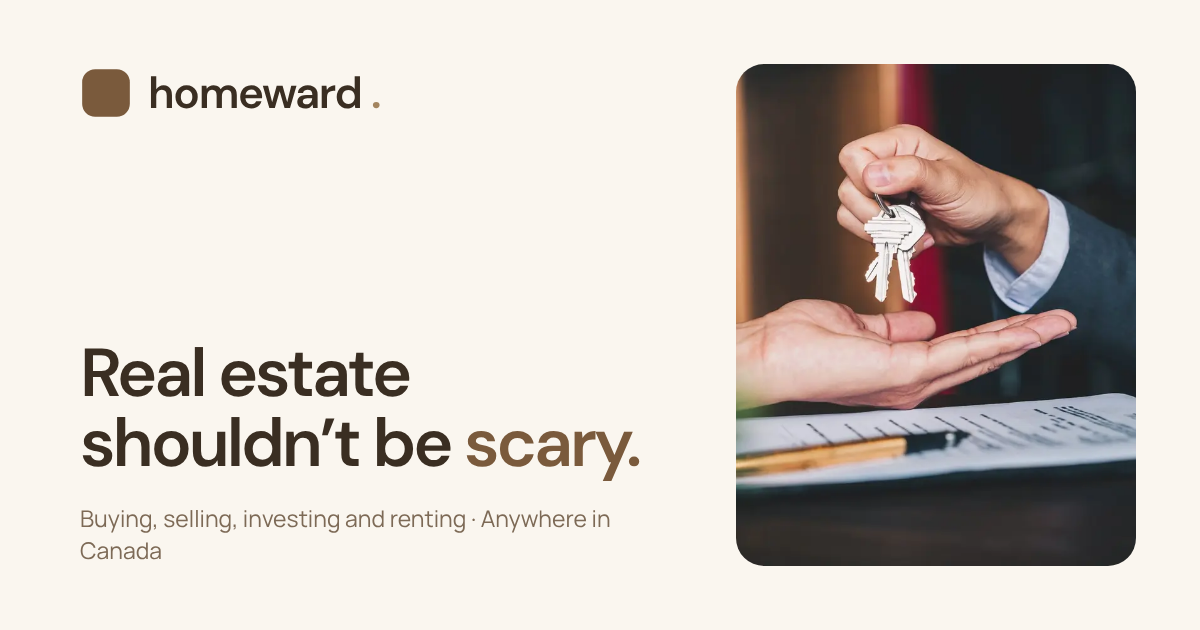
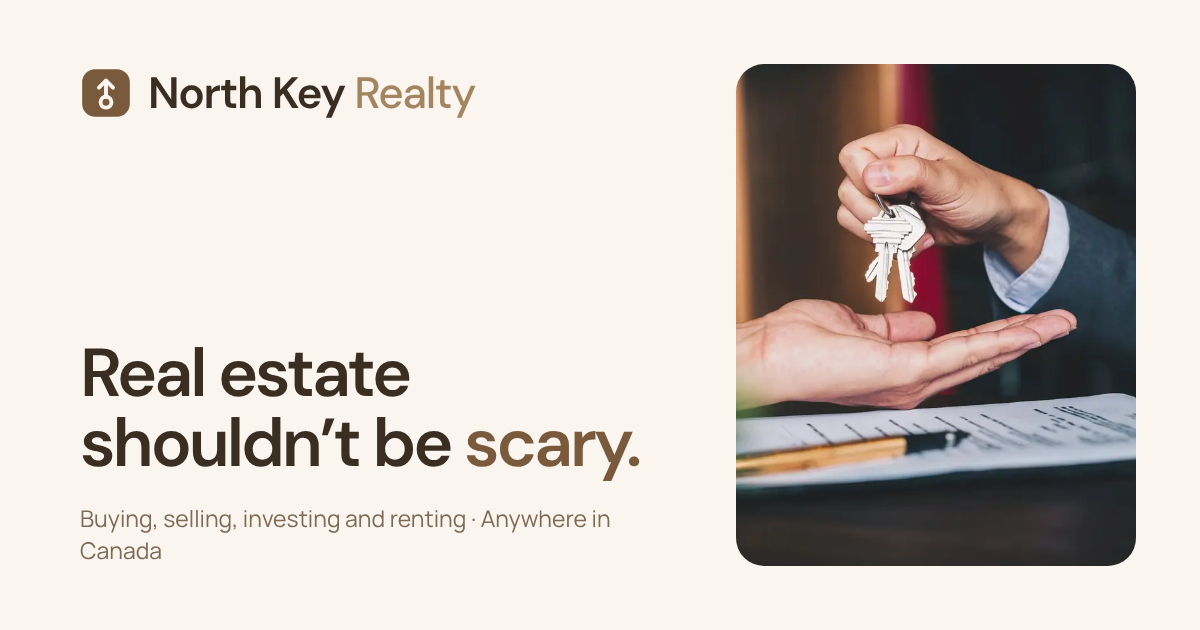
Homeward becomes North Key Realty
New name across the site (pages, emails, PDFs, titles), a north-key
mark (a key pointing north on the brand-brown square) in the logo,
icons, favicon and PDFs, the North Key Realty wordmark, and a new link
preview image. The look and the tools are unchanged.

Claude-Session: https://claude.ai/code/session_01BAXLh1LJG2DLzXyzfFg8Ah

Changed region(s): [[0.1233, 0.1206, 0.4008, 0.181], [0.0617, 0.1206, 0.0925, 0.181]]

diff --git a/brands/real-estate-business/src/lib/brand.js b/brands/real-estate-business/src/lib/brand.js
@@ -1,17 +1,34 @@
-// The Homeward mark: a filled rounded square in the brand brown, on a
+// The North Key Realty mark: a brown rounded square holding a cream key
+// that points north (its bow below, its shaft up to an arrowhead), on a
 // 48-unit square. Logo.jsx, the PDFs,
 // public/favicon.svg and the app icons all draw this geometry, in COLOR.
-// (This file replaces src/lib/brand.js on the Homeward copy of the site;
+// (This file replaces src/lib/brand.js on the North Key Realty copy of the site;
 // see scripts/rebrand.mjs.)
 export const MARK = {
   color: '#7A5A3C',
   outer: { x: 2, y: 2, size: 44, r: 12 },
+  ink: '#FAF6EF',
+  stroke: 3.6,
+  // The key, in the square: its round bow, the shaft, and the arrowhead pointing north.
+  bow: { cx: 24, cy: 32.5, r: 5 },
+  shaft: [24, 27.5, 24, 12.5],
+  head: [
+    [17.5, 19],
+    [24, 12.5],
+    [30.5, 19],
+  ],
 };
 
 /** The whole mark as SVG elements (inside a 0 0 48 48 viewBox). */
 export function markSvg(color = MARK.color) {
   const o = MARK.outer;
-  return `<rect x="${o.x}" y="${o.y}" width="${o.size}" height="${o.size}" rx="${o.r}" fill="${color}"/>`;
+  const { bow, shaft, head, ink, stroke } = MARK;
+  const line = `fill="none" stroke="${ink}" stroke-width="${stroke}" stroke-linecap="round" stroke-linejoin="round"`;
+  return (
+    `<rect x="${o.x}" y="${o.y}" width="${o.size}" height="${o.size}" rx="${o.r}" fill="${color}"/>` +
+    `<circle cx="${bow.cx}" cy="${bow.cy}" r="${bow.r}" ${line}/>` +
+    `<path d="M${shaft[0]} ${shaft[1]}V${shaft[3]}M${head.map((p) => p.join(' ')).join('L')}" ${line}/>`
+  );
 }
 
 /** "#7A5A3C" as [122, 90, 60]. */
@@ -24,4 +41,10 @@ export function drawMarkPdf(doc, x, y, size, bg = [255, 255, 255]) {
   void bg;
   doc.setFillColor(...hexRgb(MARK.color));
   doc.roundedRect(x + o.x * k, y + o.y * k, o.size * k, o.size * k, o.r * k, o.r * k, 'F');
+  const { bow, shaft, head } = MARK;
+  doc.setDrawColor(...hexRgb(MARK.ink));
+  doc.setLineWidth(MARK.stroke * k);
+  doc.circle(x + bow.cx * k, y + bow.cy * k, bow.r * k, 'S');
+  doc.line(x + shaft[0] * k, y + shaft[1] * k, x + shaft[2] * k, y + shaft[3] * k);
+  for (let i = 1; i < head.length; i++) doc.line(x + head[i - 1][0] * k, y + head[i - 1][1] * k, x + head[i][0] * k, y + head[i][1] * k);
 }

diff --git a/brands/real-estate-business/src/landing/Landing.jsx b/brands/real-estate-business/src/landing/Landing.jsx
@@ -12,10 +12,10 @@ import { DEFAULT_MARKET, INDEX_DOC, dedupeListings, feedDoc, listingCity, listin
 import { money } from '../lib/format.js';
 
 /**
- * Homeward's front page at /. The look and words are Homeward's; every
+ * North Key Realty's front page at /. The look and words are its own; every
  * number comes from the same engine as the app (the buying rules, the
  * mortgage maths, the morning run's listings), and every link opens the
- * real tool. (This file replaces src/landing/Landing.jsx on the Homeward
+ * real tool. (This file replaces src/landing/Landing.jsx on the North Key Realty
  * copy of the site; see scripts/rebrand.mjs.)
  */
 
@@ -144,7 +144,7 @@ function Nav() {
   return (
     <header className="sticky top-0 z-30 border-b border-hairline bg-(--page)/90 backdrop-blur supports-[backdrop-filter]:bg-(--page)/80">
       <div className={`${shell} flex h-[84px] items-center justify-between gap-4`}>
-        <a href="/" aria-label="Homeward home" className="min-w-0 rounded-sm focus-visible:outline-2 focus-visible:outline-offset-4 focus-visible:outline-(--accent)">
+        <a href="/" aria-label="North Key Realty home" className="min-w-0 rounded-sm focus-visible:outline-2 focus-visible:outline-offset-4 focus-visible:outline-(--accent)">
           <Logo />
         </a>
         <nav aria-label="Sections" className="hidden items-center gap-5 text-sm font-semibold text-zinc-600 lg:flex dark:text-zinc-400">

diff --git a/brands/real-estate-business/src/components/Logo.jsx b/brands/real-estate-business/src/components/Logo.jsx
@@ -1,17 +1,17 @@
 import { MARK, markSvg } from '../lib/brand.js';
 
-/** The mark alone: a rounded square in the brand brown. */
+/** The mark alone: a cream key pointing north, on a rounded square in the brand brown. */
 export function LogoMark({ className = 'size-7' }) {
   return <svg viewBox="0 0 48 48" className={className} aria-hidden dangerouslySetInnerHTML={{ __html: markSvg(MARK.color) }} />;
 }
 
-/** The wordmark, as Homeward writes it: lowercase, with a dot in the lighter brown. */
+/** The wordmark: North Key in the display face, Realty lighter beside it (hidden on the narrowest phones). */
 export default function Logo() {
   return (
     <div className="flex min-w-0 items-center gap-2.5 sm:gap-3">
       <LogoMark className="size-7 shrink-0 sm:size-8" />
       <span className="font-display whitespace-nowrap text-[21px] font-semibold tracking-[-0.03em] text-zinc-900 sm:text-[23px] dark:text-white">
-        homeward<span className="ml-1 text-emerald-500 dark:text-emerald-300">.</span>
+        North Key<span className="ml-1.5 font-medium text-emerald-600 max-[380px]:hidden dark:text-emerald-300">Realty</span>
       </span>
     </div>
   );

diff --git a/brands/real-estate-business/theme.css b/brands/real-estate-business/theme.css
@@ -1,4 +1,4 @@
-/* Homeward: warm cream pages, brown accents, DM Sans headings over Manrope.
+/* North Key Realty: warm cream pages, brown accents, DM Sans headings over Manrope.
    scripts/rebrand.mjs puts the @import lines at the top of src/index.css and
    the rest at the end, so these win over the Squarely look. */
 @import '@fontsource-variable/dm-sans';
@@ -19,7 +19,7 @@
   --color-rule: #c9b79c;
   --color-well: rgb(122 90 60 / 0.06);
 
-  /* Homeward brown at Tailwind's light-to-dark steps: every emerald-* class in the app takes it. */
+  /* The brand brown at Tailwind's light-to-dark steps: every emerald-* class in the app takes it. */
   --color-emerald-50: #faf4ea;
   --color-emerald-100: #f2e9db;
   --color-emerald-200: #e7d7bf;
@@ -138,7 +138,7 @@ html.dark .shot {
   }
 }
 
-/* Homeward keeps its calm look: no grid, corner ticks or glow from the app's HUD, and its own fonts for labels and ranks. */
+/* North Key Realty keeps its calm look: no grid, corner ticks or glow from the app's HUD, and its own fonts for labels and ranks. */
 :root,
 html.dark {
   --hud-grid: transparent;

diff --git a/brands/real-estate-business/src/seo/theme.js b/brands/real-estate-business/src/seo/theme.js
@@ -1,6 +1,6 @@
-// Homeward's look for the city pages (replaces src/seo/theme.js on the
-// Homeward copy of the site; see scripts/rebrand.mjs). Homeward is the
-// site search engines list.
+// North Key Realty's look for the city pages (replaces src/seo/theme.js on
+// its copy of the site; see scripts/rebrand.mjs). It's the site search
+// engines list.
 
 export const PAGE_THEME = {
   index: true,

diff --git a/README.md b/README.md
@@ -218,7 +218,8 @@ logo), and whether it starts light. Files in `brands/<slug>/src/` replace the
 same files in `src/`, for a brand's own logo or homepage.
 
 The second Worker, `real-estate-business`, is set up this way and now runs as
-**Homeward**: its name, its "homeward." logo, warm cream and brown colours,
+**North Key Realty**, the site we grow (it was Homeward until November 2026):
+its name, its north-key logo (a key pointing north) and wordmark, warm cream and brown colours,
 DM Sans and Manrope, light by default, and its own homepage
 (`brands/real-estate-business/src/landing/Landing.jsx`). Every tool behind it
 (the app, listings, accounts, landlord tools) is the same as the main site's.
@@ -234,4 +235,4 @@ file, so a change to the main homepage doesn't reach it on its own.
 
 ## City pages for search
 
-`npm run build` ends with `scripts/city-pages.mjs`, which writes plain-HTML pages from the morning listings in `public/data/` into `dist/homes-for-sale/`: one for every city, and one for each kind of home in it (`/homes-for-sale/thunder-bay/duplexes/`) with at least three listings. Each listing is worked out by the listings engine: 20% down at a bank's rate, stated or average asking rents, and cash flow and a grade only where the listing gives its real tax bill. They're added to the built sitemap, so every daily listings commit refreshes them on deploy. A brand copy sets its own look and whether search engines may list them in `brands/<slug>/src/seo/theme.js`. Homeward is the site we grow, so its pages are listed in search too.
+`npm run build` ends with `scripts/city-pages.mjs`, which writes plain-HTML pages from the morning listings in `public/data/` into `dist/homes-for-sale/`: one for every city, and one for each kind of home in it (`/homes-for-sale/thunder-bay/duplexes/`) with at least three listings. Each listing is worked out by the listings engine: 20% down at a bank's rate, stated or average asking rents, and cash flow and a grade only where the listing gives its real tax bill. They're added to the built sitemap, so every daily listings commit refreshes them on deploy. A brand copy sets its own look and whether search engines may list them in `brands/<slug>/src/seo/theme.js`. North Key Realty is the site we grow, so its pages are listed in search too.
